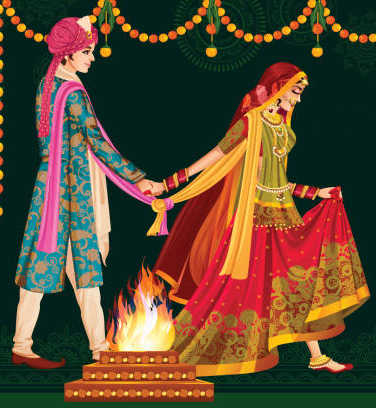
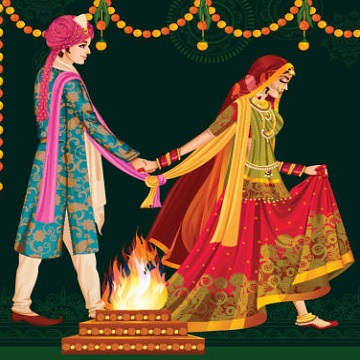
event size change

diff --git a/index.html b/index.html
@@ -448,7 +448,7 @@
 				<div class="col-lg-4 col-md-6 col-sm-12">
 					<div class="event-inner">
 						<div class="event-img">
-							<img class="img-fluid" src="images/event-img-03.jpg" alt="" />
+							<img class="img-fluid" src="images/event-img-03.jpg" alt="" height="260" width="260" />
 						</div>
 						<h2>15 November 2021 { Wedding Night } </h2>
 						<p>Bhaat Function | Wedding Ceremony </p>
